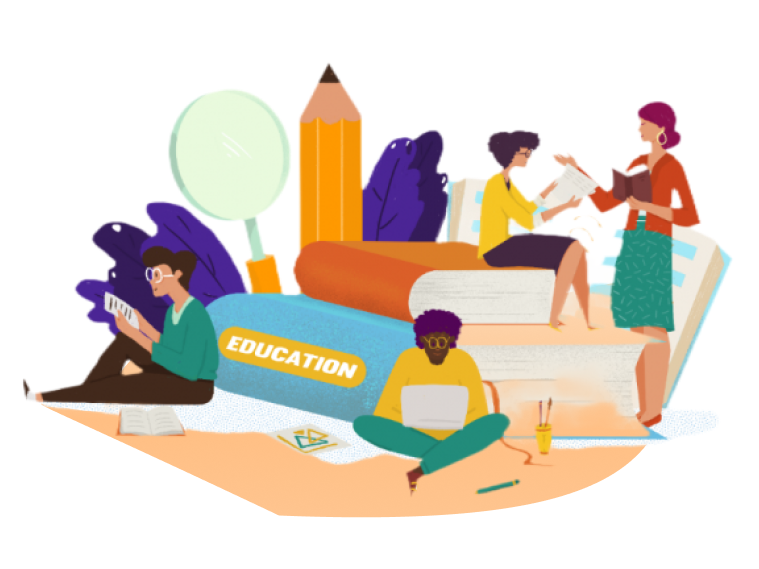
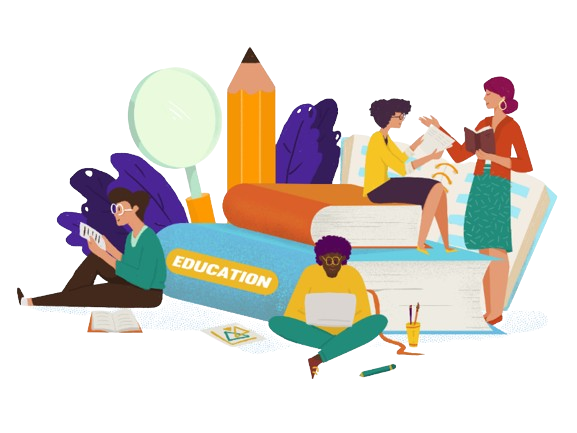
página entrada

diff --git a/Frontend/Pag inicial/Entrada/style.css b/Frontend/Pag inicial/Entrada/style.css
@@ -83,8 +83,8 @@ header h1 {
   position: absolute;
   width: 30%;
 
-  bottom: 37%;
-  left: 10%;
+  bottom: 35%;
+  left: 11%;
 
   opacity: 0;
 
@@ -95,9 +95,10 @@ header h1 {
 #img02 {
   position: absolute;
   z-index: 2;
+  scale: 130%;
 
-  top: 35vh;
-  right: 12vw;
+  top: 32vh;
+  right: 16vw;
   
   opacity: 0;
 
